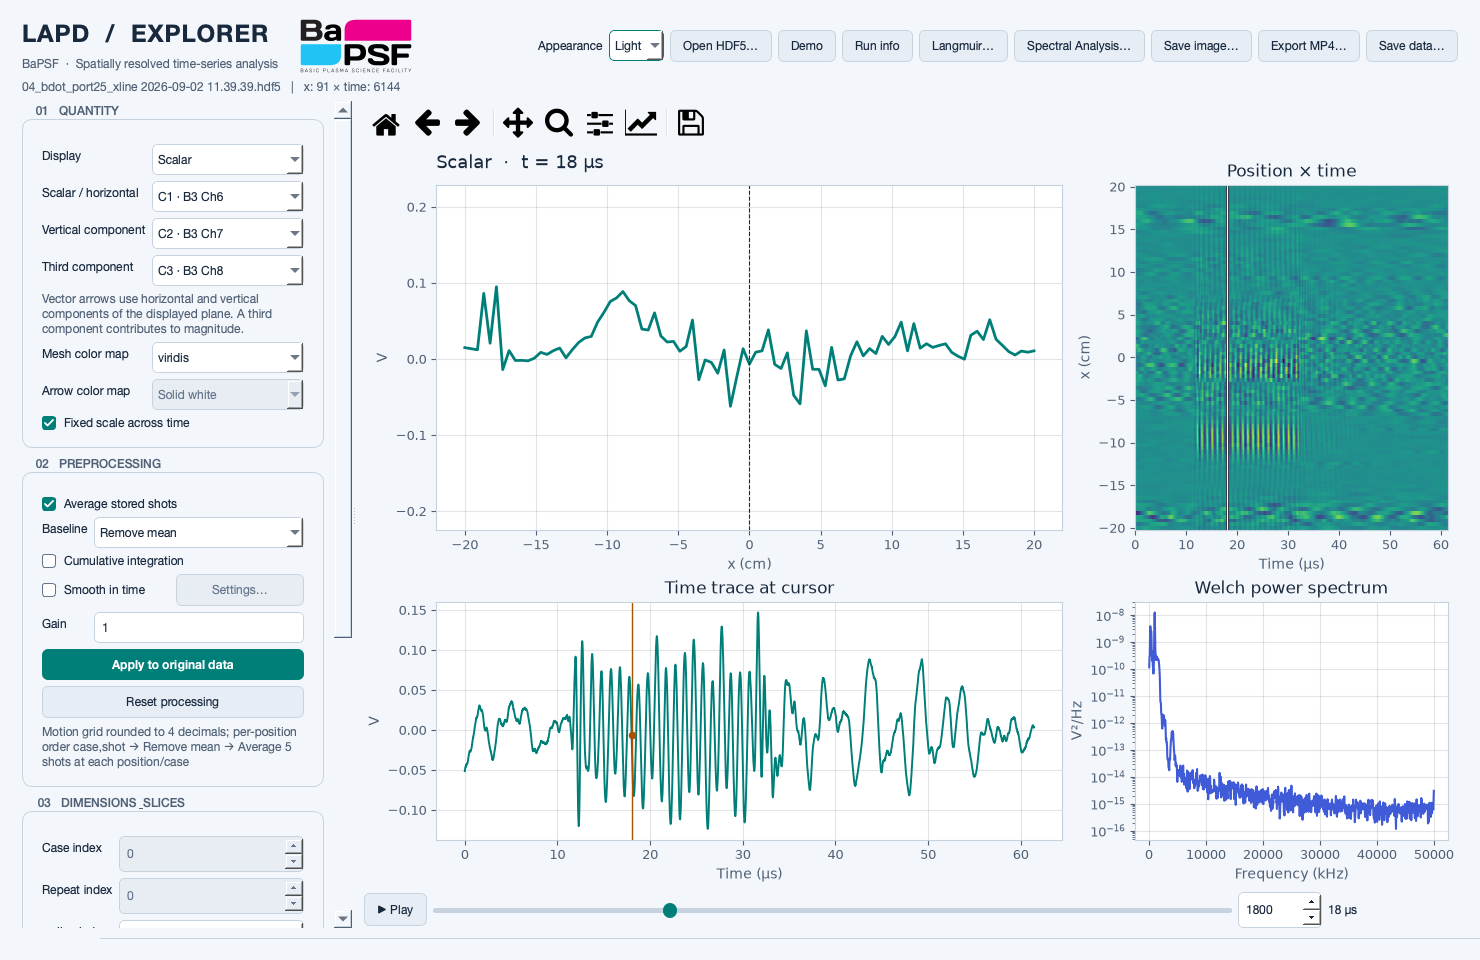
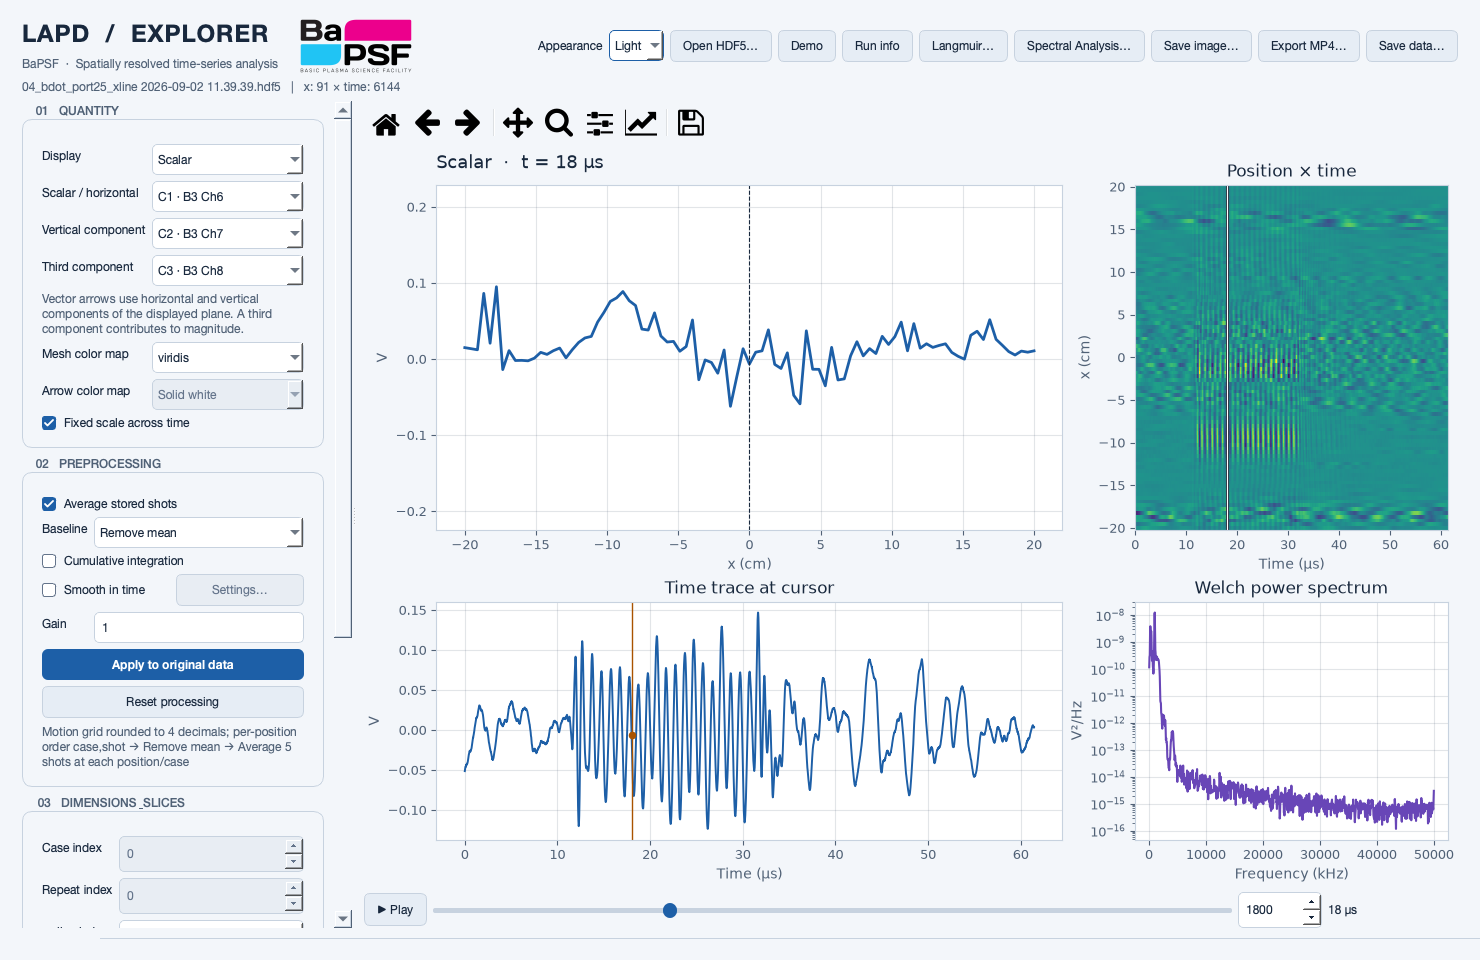
Replace teal accents with blue palette

diff --git a/lapd_explorer/appearance.py b/lapd_explorer/appearance.py
@@ -8,13 +8,13 @@ ASSET_DIR = Path(__file__).parent / "assets"
 
 THEMES = {
     "Light": dict(bg="#f3f6fa", panel="#ffffff", fg="#18283d", muted="#506176",
-                  accent="#007f78", secondary="#405bd8", third="#a54479", cursor="#a95300",
+                  accent="#1d5fa7", secondary="#6846b7", third="#a54479", cursor="#a95300",
                   border="#c7d2df", field="#ffffff", button="#e6edf5", hover="#d8e5ef",
-                  disabled="#64748b", inactive="#e8edf3", selection="#d4ece9", on_accent="#ffffff"),
+                  disabled="#64748b", inactive="#e8edf3", selection="#dbeafe", on_accent="#ffffff"),
     "Dark": dict(bg="#0c1422", panel="#111e30", fg="#e7eef8", muted="#9aadc4",
-                 accent="#46d9c5", secondary="#91aaff", third="#f2a0cf", cursor="#ffc577",
+                 accent="#66b3ff", secondary="#b69cff", third="#f2a0cf", cursor="#ffc577",
                  border="#30465f", field="#152438", button="#1b2b40", hover="#2b425c",
-                 disabled="#8797ab", inactive="#142033", selection="#28505b", on_accent="#0b2026"),
+                 disabled="#8797ab", inactive="#142033", selection="#193b63", on_accent="#071a33"),
 }
 
 
